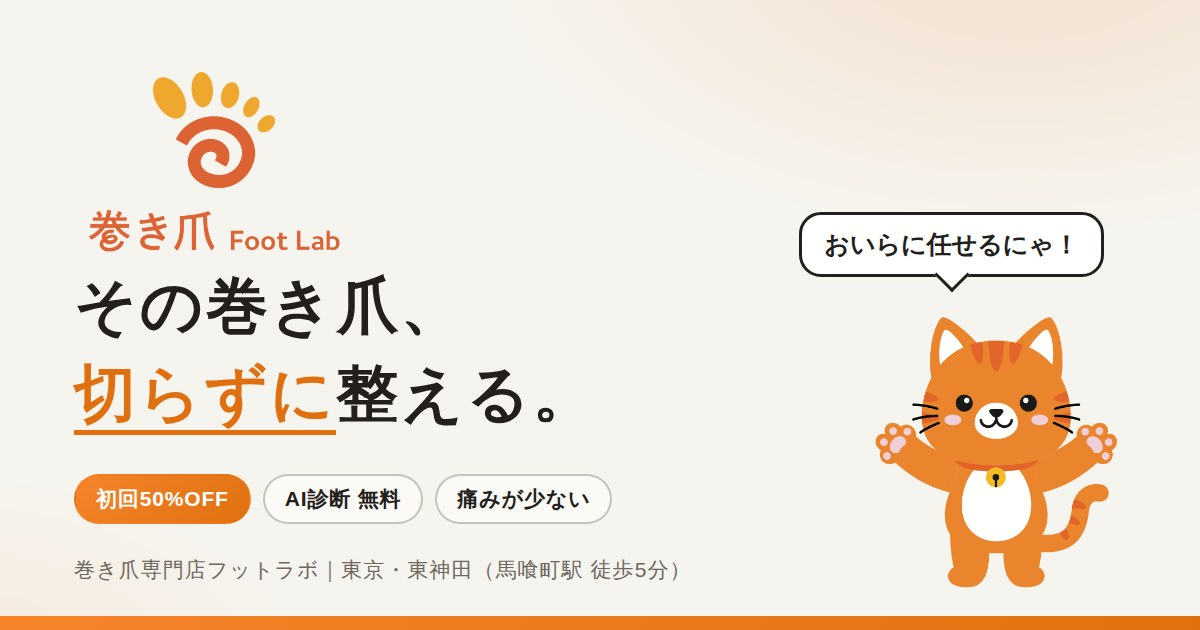
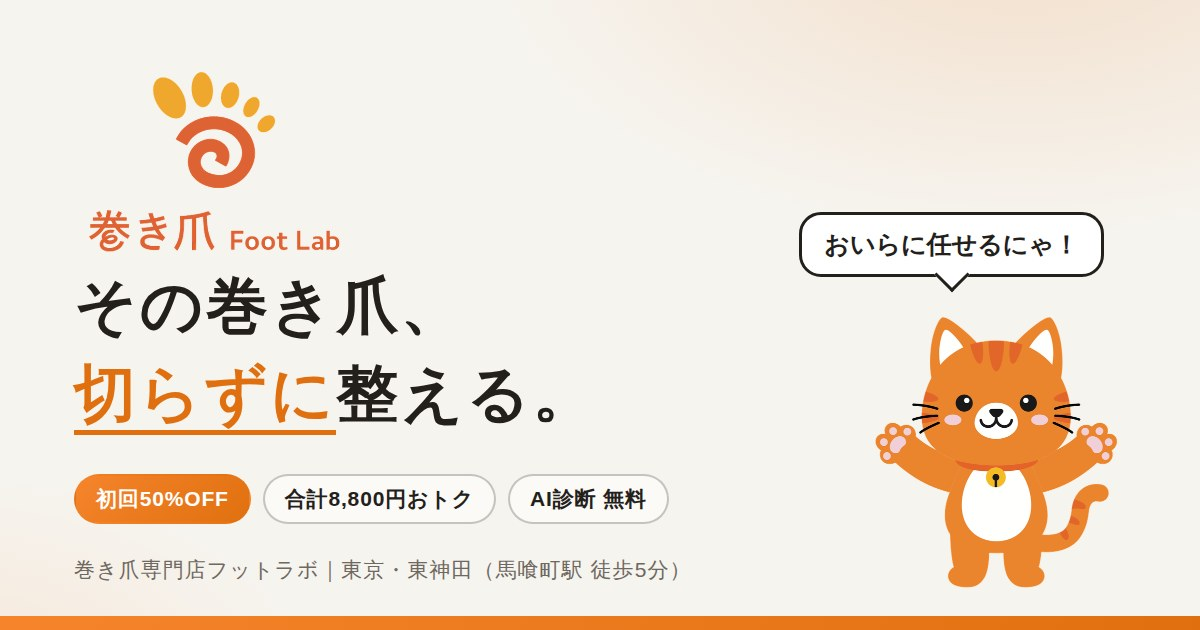
価格のお得感を強化: 通常合計14,300円→初回5,500円の差額(8,800円おトク)を明示
- ヒーローの価格ブロックを刷新: 「初回体験セット」の内容明記+
  通常合計¥14,300(打ち消し)→50%OFF ¥5,500の対比+「合計8,800円分おトク」帯
- 特典BOX×2の料金表に「初回合計」行を追加(−¥8,800タグ・オレンジ強調)
- 「カウンセリングからセルフケア指導まで追加料金なしの全部込み」注記を追加
- 画面下固定バーに打ち消し価格(¥11,000→¥5,500)を追加
- OGP画像のチップを「合計8,800円おトク」入りに再生成
- fineprintに8,800円の算出根拠を明記(景品表示法対応)、運用ガイドに価格変更手順を追記

Claude-Session: https://claude.ai/code/session_016YkRbknJnnQsLpzDA1Gc56

Changed region(s): [[0.2158, 0.754, 0.555, 0.8444]]

diff --git a/index.html b/index.html
@@ -548,6 +548,29 @@ window.LP_CONFIG = {
   .deadline{text-align:center;font-size:.8rem;font-weight:500;letter-spacing:.06em;color:var(--ink-soft);margin-top:12px}
   .deadline b{color:var(--orange);font-weight:700}
 
+  /* ===== 価格お得感の強調 ===== */
+  .hero-offer.v2{display:block;text-align:center;padding:18px 16px 16px}
+  .hero-offer.v2 .ho-cap{font-family:var(--serif);font-weight:600;font-size:.94rem;letter-spacing:.04em;line-height:1.5}
+  .hero-offer.v2 .ho-cap small{display:block;font-family:var(--sans);font-weight:400;font-size:.68rem;color:var(--ink-soft);letter-spacing:.02em;margin-top:4px}
+  .hero-offer.v2 .ho-price{display:flex;align-items:baseline;justify-content:center;gap:10px;margin-top:13px;flex-wrap:wrap}
+  .hero-offer.v2 .was{color:var(--ink-dim);display:inline-flex;align-items:baseline;gap:5px}
+  .hero-offer.v2 .was small{font-size:.66rem;letter-spacing:.06em}
+  .hero-offer.v2 .was s{font-size:1.08rem;font-weight:500;text-decoration-thickness:2px;text-decoration-color:rgba(224,112,15,.75)}
+  .hero-offer.v2 .arw{color:var(--orange);font-weight:700}
+  .hero-offer.v2 .now{display:inline-flex;align-items:baseline;gap:7px}
+  .hero-offer.v2 .now .off{font-style:normal;font-size:.6rem;font-weight:700;letter-spacing:.14em;color:#fff;background:var(--orange);padding:3px 7px;align-self:center}
+  .hero-offer.v2 .now b{font-family:var(--sans);font-weight:900;font-size:2.35rem;line-height:1;color:var(--orange);letter-spacing:.01em}
+  .hero-offer.v2 .now small{font-size:.72rem;font-weight:500;color:var(--ink-soft)}
+  .hero-offer.v2 .ho-save{margin-top:11px;font-weight:700;font-size:.9rem;letter-spacing:.08em;color:var(--ink)}
+  .hero-offer.v2 .ho-save b{color:var(--orange);font-size:1.08rem}
+  .deal-row.total{background:var(--orange-tint);border-top:2px solid var(--orange);border-bottom:none;padding-left:10px;padding-right:10px}
+  .deal-row.total .dn{font-family:var(--serif);font-weight:700}
+  .tag.save{background:var(--orange);color:#fff}
+  .deal-row.total .dnow{font-size:2.05rem}
+  .deal-row.total .dnow small{color:var(--orange);font-weight:700}
+  .all-in{text-align:center;font-size:.78rem;color:var(--ink-soft);margin-top:10px;letter-spacing:.02em}
+  .sticky-cta .o2 s{font-size:.68rem;color:var(--ink-dim);font-weight:500;margin-right:4px}
+
   @media(prefers-reduced-motion:reduce){
     *{animation:none!important;scroll-behavior:auto!important}
     .sticky-cta{transition:none}
@@ -613,9 +636,14 @@ window.LP_CONFIG = {
     <div class="hero-copy" style="padding:30px 0 6px">
       <p>「病院に行くほどじゃない」——そんな方へ。<br><b>切らない・痛みの少ないケア</b>という選択を。</p>
     </div>
-    <div class="hero-offer">
-      <div class="ho-l">はじめての方限定<br>巻き爪補正 初回体験<small>AI診断（通常3,300円）も無料</small></div>
-      <div class="ho-r"><span class="off">50% OFF</span>¥5,500<small>税込</small></div>
+    <div class="hero-offer v2">
+      <div class="ho-cap">はじめての方限定｜初回体験セット<small>カウンセリング＋AI診断＋巻き爪補正＋セルフケア指導</small></div>
+      <div class="ho-price">
+        <span class="was"><small>通常合計</small><s>¥14,300</s></span>
+        <span class="arw" aria-hidden="true">→</span>
+        <span class="now"><i class="off">50%OFF</i><b>¥5,500</b><small>税込</small></span>
+      </div>
+      <div class="ho-save">＼ 合計 <b>8,800円分</b> おトク ／</div>
     </div>
     <div class="slots-badge" data-slots hidden><span class="sl-dot" aria-hidden="true"></span><span data-slots-month>今月</span>の初回体験枠　残り<b data-slots-n>–</b>名</div>
     <a href="https://lin.ee/your-line-id" target="_blank" rel="noopener" class="cta" style="margin-top:14px">
@@ -728,14 +756,22 @@ window.LP_CONFIG = {
           </div>
           <div class="dr"><span class="dnow">¥5,500<small>（税抜5,000円）</small></span></div>
         </div>
+        <div class="deal-row total">
+          <div class="dl">
+            <div class="dn">初回合計 <span class="tag save">−¥8,800</span></div>
+            <div class="dold"><s>通常 税込14,300円</s></div>
+          </div>
+          <div class="dr"><span class="dnow">¥5,500<small>合計8,800円おトク</small></span></div>
+        </div>
       </div>
+      <p class="all-in">カウンセリングからセルフケア指導まで、追加料金なしの全部込みです。</p>
       <span class="cta-fast">＼ 予約は30秒で完了 ／</span>
       <a href="https://lin.ee/your-line-id" target="_blank" rel="noopener" class="cta" style="margin-top:0">
         <svg class="ico" viewBox="0 0 24 24" fill="currentColor"><path d="M12 2C6.5 2 2 5.7 2 10.2c0 4 3.6 7.4 8.5 8 .3.07.8.2.9.5.08.25.05.65.03.9l-.15.9c-.04.27-.2 1.05.92.57s6.06-3.57 8.27-6.11C21.5 13.3 22 11.8 22 10.2 22 5.7 17.5 2 12 2z"/></svg>
         LINEで予約する
       </a>
       <div class="cta-note">写真を送るだけでもOK。ご相談だけでも歓迎です。</div>
-      <p class="fineprint">※価格は税込表示です（かっこ内は税抜）。取り消し線の価格は当店の通常価格です。ケアの内容・料金・回数は状態により異なる場合があります。キャンペーンは予告なく終了する場合があります。</p>
+      <p class="fineprint">※価格は税込表示です（かっこ内は税抜）。取り消し線の価格は当店の通常価格です。「8,800円おトク」は通常価格合計（AI診断3,300円＋巻き爪補正11,000円＝税込14,300円）と初回体験価格（税込5,500円）の差額です。ケアの内容・料金・回数は状態により異なる場合があります。キャンペーンは予告なく終了する場合があります。</p>
     </div>
   </div>
 </section>
@@ -955,6 +991,10 @@ window.LP_CONFIG = {
           <div class="dl"><div class="dn">巻き爪補正 <span class="tag half">50% OFF</span></div><div class="dold"><s>通常 税込11,000円／税抜10,000円</s></div></div>
           <div class="dr"><span class="dnow">¥5,500<small>（税抜5,000円）</small></span></div>
         </div>
+        <div class="deal-row total">
+          <div class="dl"><div class="dn">初回合計 <span class="tag save">−¥8,800</span></div><div class="dold"><s>通常 税込14,300円</s></div></div>
+          <div class="dr"><span class="dnow">¥5,500<small>合計8,800円おトク</small></span></div>
+        </div>
       </div>
       <span class="cta-fast" style="margin-top:20px">＼ 友だち追加だけでもOK ／</span>
       <a href="https://lin.ee/your-line-id" target="_blank" rel="noopener" class="cta" style="margin-top:0">
@@ -962,7 +1002,7 @@ window.LP_CONFIG = {
         LINEで予約する
       </a>
       <div class="cta-note">しつこい連絡はいたしません。</div>
-      <p class="fineprint">※価格は税込表示です（かっこ内は税抜）。取り消し線の価格は当店の通常価格です。キャンペーンは予告なく終了する場合があります。</p>
+      <p class="fineprint">※価格は税込表示です（かっこ内は税抜）。取り消し線の価格は当店の通常価格です。「8,800円おトク」は通常価格合計（税込14,300円）と初回体験価格（税込5,500円）の差額です。キャンペーンは予告なく終了する場合があります。</p>
     </div>
   </div>
 </section>
@@ -1046,7 +1086,7 @@ window.LP_CONFIG = {
 
 <div class="sticky-cta" id="stickyCta">
   <div class="inner">
-    <div class="sc-off"><span class="o1" id="scOff1">初回限定 50%OFF</span><span class="o2">¥5,500</span></div>
+    <div class="sc-off"><span class="o1" id="scOff1">初回限定 50%OFF</span><span class="o2"><s>¥11,000</s>¥5,500</span></div>
     <a href="https://lin.ee/your-line-id" target="_blank" rel="noopener" class="cta">
       <svg class="ico" viewBox="0 0 24 24" fill="currentColor"><path d="M12 2C6.5 2 2 5.7 2 10.2c0 4 3.6 7.4 8.5 8 .3.07.8.2.9.5.08.25.05.65.03.9l-.15.9c-.04.27-.2 1.05.92.57s6.06-3.57 8.27-6.11C21.5 13.3 22 11.8 22 10.2 22 5.7 17.5 2 12 2z"/></svg>
       LINEで予約

diff --git a/docs/LP運用ガイド.md b/docs/LP運用ガイド.md
@@ -103,3 +103,12 @@ window.LP_CONFIG = {
 ### ヒーロー吹き出し（ツメピカにゃん）
 - 現行: `おいらに任せるにゃ！`
 - 案B: `切らないから痛くないにゃ！`
+
+---
+
+## 5. 価格を変更する場合
+
+価格表記は複数箇所に分散しています。`index.html` 内を以下のキーワードで検索して、すべて揃えて変更してください:
+`¥5,500` / `5,000円` / `¥11,000` / `11,000円` / `3,300円` / `¥14,300` / `14,300円` / `¥8,800` / `8,800円` / `50%OFF` / `50% OFF`
+
+「8,800円おトク」は **通常合計14,300円 −（税込）初回5,500円** の差額です。価格を変えたら差額・注記（fineprint）・OGP画像も更新が必要です。
